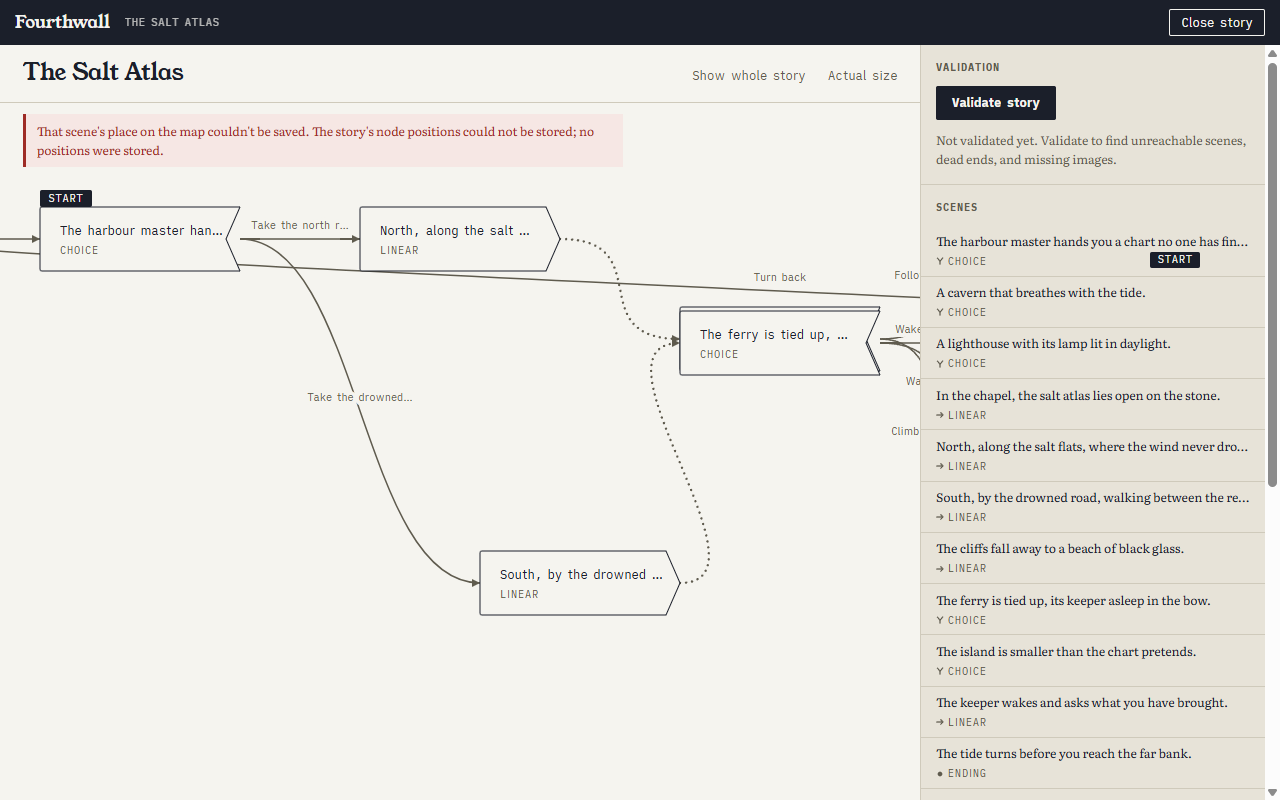
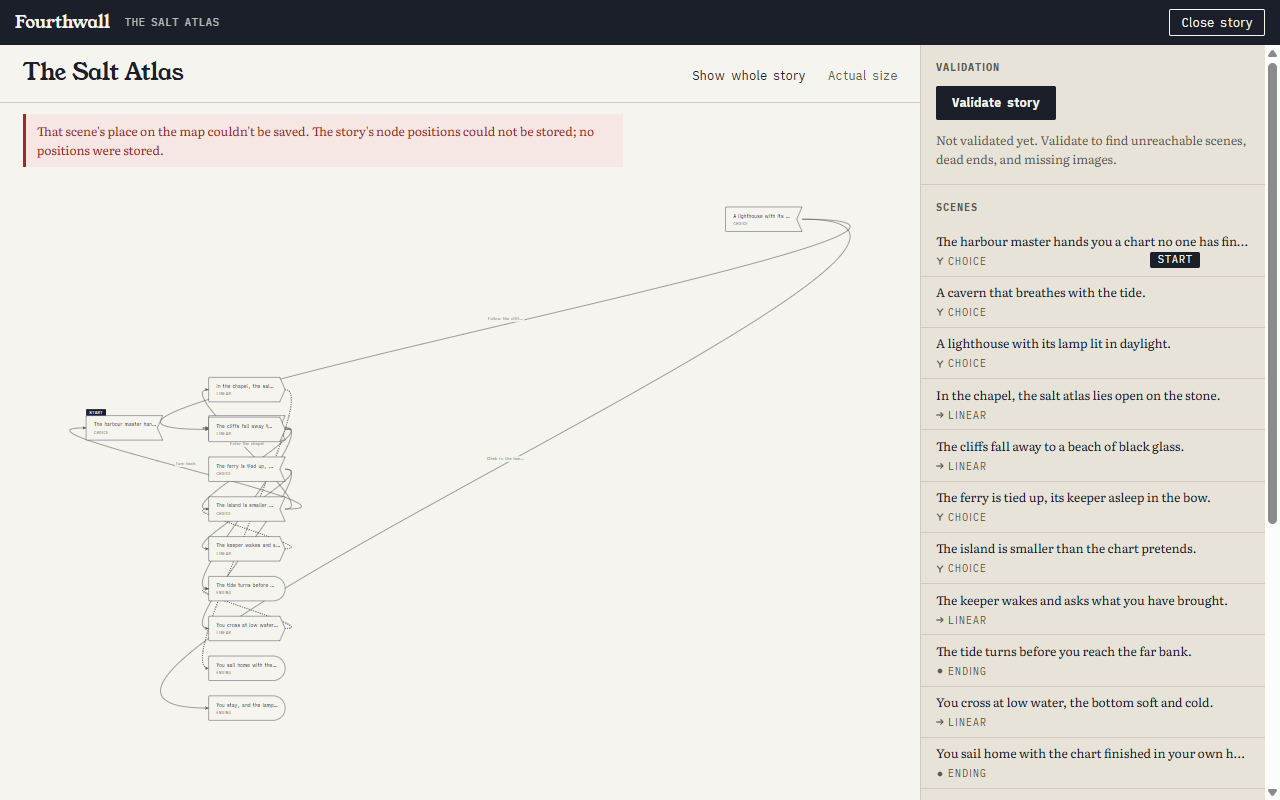
Measure the sheet the svg fills, and end a gesture whose element is gone
Review follow-ups on PR #27.

The shim measured the host and anchored the wheel to it, but the svg sits
below the error line inside that host, so while a line showed every frame
the viewport reasoned with was off by the line's height: the point under
the cursor slid as the wheel turned, and Fit centred on the host rather
than the drawing. The svg now fills a sheet of its own that the shim
measures; the error line stays outside it. A test pins the structure.

A gesture could only end by a release reaching the host. If the pressed
element left the DOM mid-drag (its scene deleted from another tab), the
browser dropped the capture and a release outside the svg never arrived,
leaving the shim and the interaction holding a page no press could put
down. The shim now hears the rest of a gesture at the document, where a
lost capture and any release still arrive, and the canvas cancels a
gesture whose pressed scene has left the story, so the release never tries
to save a place for a scene that is gone.

Also: the model's Bounds summary says "box" beside the Edges property, and
the two public view methods carry a comment on why they call
StateHasChanged themselves.

diff --git a/src/Fourthwall.Web/Components/Canvas/StoryCanvas.razor.js b/src/Fourthwall.Web/Components/Canvas/StoryCanvas.razor.js
@@ -1,6 +1,7 @@
 // The canvas's shim: the thin layer between the browser's resize, wheel, and pointer events and
 // StoryCanvas's [JSInvokable] methods. It measures, captures, and forwards; every decision about
-// what a gesture means is made in C# (CanvasViewport, CanvasInteraction).
+// what a gesture means is made in C# (CanvasViewport, CanvasInteraction). The host it is given
+// is the sheet the svg fills exactly, so the sizes and wheel points it reports are the svg's own.
 //
 // Why it exists at all: browsers register wheel listeners as passive by default, so only a
 // non-passive listener here can stop a wheel from scrolling the page; pointer capture must be set
@@ -42,9 +43,17 @@ export function attach(host, dotnet) {
     const options = { signal: listeners.signal };
     host.addEventListener("wheel", (event) => onWheel(session, event), { passive: false, signal: listeners.signal });
     host.addEventListener("pointerdown", (event) => onPointerDown(session, event), options);
-    host.addEventListener("pointermove", (event) => onPointerMove(session, event), options);
-    host.addEventListener("pointerup", (event) => onPointerUp(session, event), options);
-    host.addEventListener("pointercancel", (event) => onPointerUp(session, event), options);
+    // A press starts on the sheet; the rest of the gesture is heard at the document. While the
+    // capture holds, every move and the release reach the document anyway. If the pressed element
+    // leaves the DOM mid-gesture (its scene deleted from another tab, a child of it dropped by a
+    // re-render), the browser drops the capture, fires lostpointercapture at the document, and a
+    // release outside the sheet no longer reaches the sheet; the document still hears it, so the
+    // gesture always ends. The pointer id filter keeps other pointers, and the ordinary release
+    // (pointerup, then the loss of its capture), from ending it twice.
+    document.addEventListener("pointermove", (event) => onPointerMove(session, event), options);
+    document.addEventListener("pointerup", (event) => onPointerUp(session, event), options);
+    document.addEventListener("pointercancel", (event) => onPointerUp(session, event), options);
+    document.addEventListener("lostpointercapture", (event) => onPointerUp(session, event), options);
     session.observer.observe(host);
 }
 
@@ -104,8 +113,9 @@ function onPointerUp(session, event) {
         return;
     }
 
-    // A cancel carries no useful coordinates; the release ends where the pointer was last seen.
-    const point = event.type === "pointercancel" ? session.lastPoint : [event.clientX, event.clientY];
+    // A cancel or a lost capture carries no useful coordinates; the release ends where the pointer
+    // was last seen.
+    const point = event.type === "pointerup" ? [event.clientX, event.clientY] : session.lastPoint;
     session.pointerId = null;
     session.lastPoint = null;
     session.pending.delete("MoveAsync");

diff --git a/src/Fourthwall.Web/Components/Canvas/StoryCanvas.razor.css b/src/Fourthwall.Web/Components/Canvas/StoryCanvas.razor.css
@@ -10,8 +10,16 @@
     background: var(--fw-paper);
 }
 
-/* The drawing fills whatever the error line leaves; the viewport transform frames the map. The
-   paper is held to slide it (§11.3), and the browser's own touch gestures are kept off the map. */
+/* The sheet takes whatever the error line leaves, and is the box the shim measures. */
+.canvas-sheet {
+    flex: 1;
+    min-height: 0;
+    display: flex;
+    flex-direction: column;
+}
+
+/* The drawing fills the sheet exactly; the viewport transform frames the map. The paper is held to
+   slide it (§11.3), and the browser's own touch gestures are kept off the map. */
 .canvas-svg {
     display: block;
     flex: 1;

diff --git a/test/Fourthwall.Web.UnitTests/StoryCanvasTests.cs b/test/Fourthwall.Web.UnitTests/StoryCanvasTests.cs
@@ -1075,6 +1075,49 @@ public class StoryCanvasTests : BunitContext
         Assert.Equal("translate(0 0) scale(1)", WorldTransform(cut));
     }
 
+    [Fact]
+    public void Should_KeepTheErrorLineOutOfTheSheet_When_OneShows()
+    {
+        // Arrange — the shim measures the sheet and anchors the wheel to it, and the svg fills it
+        // exactly; an error line inside the same box would shift every frame the viewport reasons
+        // with by its own height.
+        var story = new Story("The Wreck");
+        story.AddScene(SceneKind.Linear, "A storm gathers");
+        _layout.FailNextLoad = new IOException("The story folder can't be read.");
+
+        // Act
+        var cut = RenderCanvas(story);
+
+        // Assert
+        Assert.Null(cut.Find(".canvas-error").Closest(".canvas-sheet"));
+        Assert.NotNull(cut.Find(".canvas-svg").Closest(".canvas-sheet"));
+        Assert.Contains("canvas", cut.Find(".canvas-sheet").ParentElement!.ClassList);
+    }
+
+    [Fact]
+    public async Task Should_EndTheGesture_When_ThePressedSceneLeavesTheStory()
+    {
+        // Arrange — another tab deletes the held scene; the page re-renders the canvas with the story
+        // as it now is. The release that follows must not try to save a place for a scene that is
+        // gone, and the ground must stop saying a page is held.
+        var story = new Story("The Wreck");
+        var storm = story.AddScene(SceneKind.Linear, "A storm gathers");
+        story.AddScene(SceneKind.Linear, "Below deck");
+        var cut = RenderCanvas(story);
+        NodeFor(cut, storm.Id).PointerDown(Press(100, 100));
+        await cut.Instance.MoveAsync(130, 120);
+        story.RemoveScene(storm.Id);
+
+        // Act
+        cut.Render(parameters => parameters.Add(p => p.Story, story));
+        await cut.Instance.UpAsync(140, 120);
+
+        // Assert
+        Assert.DoesNotContain("canvas-dragging", cut.Find(".canvas").ClassList);
+        Assert.Equal(0, _layout.SaveCount);
+        Assert.Empty(cut.FindAll(".canvas-error"));
+    }
+
     private static AngleSharp.Dom.IElement NodeFor(IRenderedComponent<StoryCanvas> cut, SceneId sceneId) =>
         cut.Find($".canvas-node[data-scene-id='{sceneId.Value}']");
 

diff --git a/src/Fourthwall.Web/Components/Canvas/StoryCanvas.razor.cs b/src/Fourthwall.Web/Components/Canvas/StoryCanvas.razor.cs
@@ -198,6 +198,11 @@ public partial class StoryCanvas : IAsyncDisposable
         StateHasChanged();
     });
 
+    // The two view methods are entry points for the page, not event handlers of this component:
+    // the render they need comes from a StateHasChanged of their own. Today the page's re-render
+    // would reach the canvas anyway, through its reference-typed parameters; that is the page's
+    // business, and these methods must not depend on it.
+
     /// <summary>
     /// Frames every scene in the window, centred, never enlarging past actual size: the toolbar's
     /// "Show whole story". Nothing to show returns the map to actual size.
@@ -279,6 +284,13 @@ public partial class StoryCanvas : IAsyncDisposable
         _placed = new Dictionary<SceneId, ScenePosition>(AutoLayout.Place(Story, GraphFactory.Create(Story), _positions));
         _model = CanvasModel.Build(Story, _placed);
         FrameIfNeeded();
+
+        // The held scene can be deleted from another tab mid-drag; the release that follows has
+        // nothing left to place or to save.
+        if (_interaction.PressedScene is { } pressed && Story.FindScene(pressed) is null)
+        {
+            _interaction.Cancel();
+        }
     }
 
     protected override async Task OnAfterRenderAsync(bool firstRender)

diff --git a/test/Fourthwall.Web.UnitTests/CanvasInteractionTests.cs b/test/Fourthwall.Web.UnitTests/CanvasInteractionTests.cs
@@ -239,6 +239,25 @@ public class CanvasInteractionTests
     }
 
     [Fact]
+    public void Should_EndTheGestureWithoutAResult_When_Cancelled()
+    {
+        // Arrange — the pressed scene can leave the story mid-drag (deleted from another tab); the
+        // gesture ends with nothing to save and no click to claim.
+        var interaction = new CanvasInteraction(_viewport);
+        interaction.PointerDown(Scene, NodeAt, 100, 100);
+        interaction.PointerMove(130, 100);
+
+        // Act
+        interaction.Cancel();
+
+        // Assert
+        Assert.Equal(CanvasInteractionMode.Idle, interaction.Mode);
+        Assert.Null(interaction.PressedScene);
+        Assert.False(interaction.ClaimClickAfterDrag());
+        Assert.Null(interaction.PointerUp());
+    }
+
+    [Fact]
     public void Should_Throw_When_ANodeIsPressedWithoutItsPosition()
     {
         // Arrange

diff --git a/src/Fourthwall.Web/Components/Canvas/CanvasInteraction.cs b/src/Fourthwall.Web/Components/Canvas/CanvasInteraction.cs
@@ -125,6 +125,17 @@ public sealed class CanvasInteraction
     }
 
     /// <summary>
+    /// Ends the gesture with nothing to report: no position to save and no click to claim. For a
+    /// pressed scene that has left the story mid-drag.
+    /// </summary>
+    public void Cancel()
+    {
+        _clickAfterDrag = false;
+        Mode = CanvasInteractionMode.Idle;
+        PressedScene = null;
+    }
+
+    /// <summary>
     /// Reports whether the click the browser fires after the most recent release belongs to a
     /// drag, and forgets it, so it is answered exactly once: that click must not select.
     /// </summary>

diff --git a/src/Fourthwall.Web/Components/Canvas/CanvasModel.cs b/src/Fourthwall.Web/Components/Canvas/CanvasModel.cs
@@ -18,7 +18,7 @@ public sealed class CanvasModel
     }
 
     /// <summary>
-    /// Gets the edges the drawing reaches, tight to its nodes, their self-loops, and the bow of
+    /// Gets the box the drawing reaches, tight to its nodes, their self-loops, and the bow of
     /// every link; empty with no nodes. The viewport adds its own margin when it frames the content.
     /// </summary>
     public CanvasBounds Bounds { get; }
